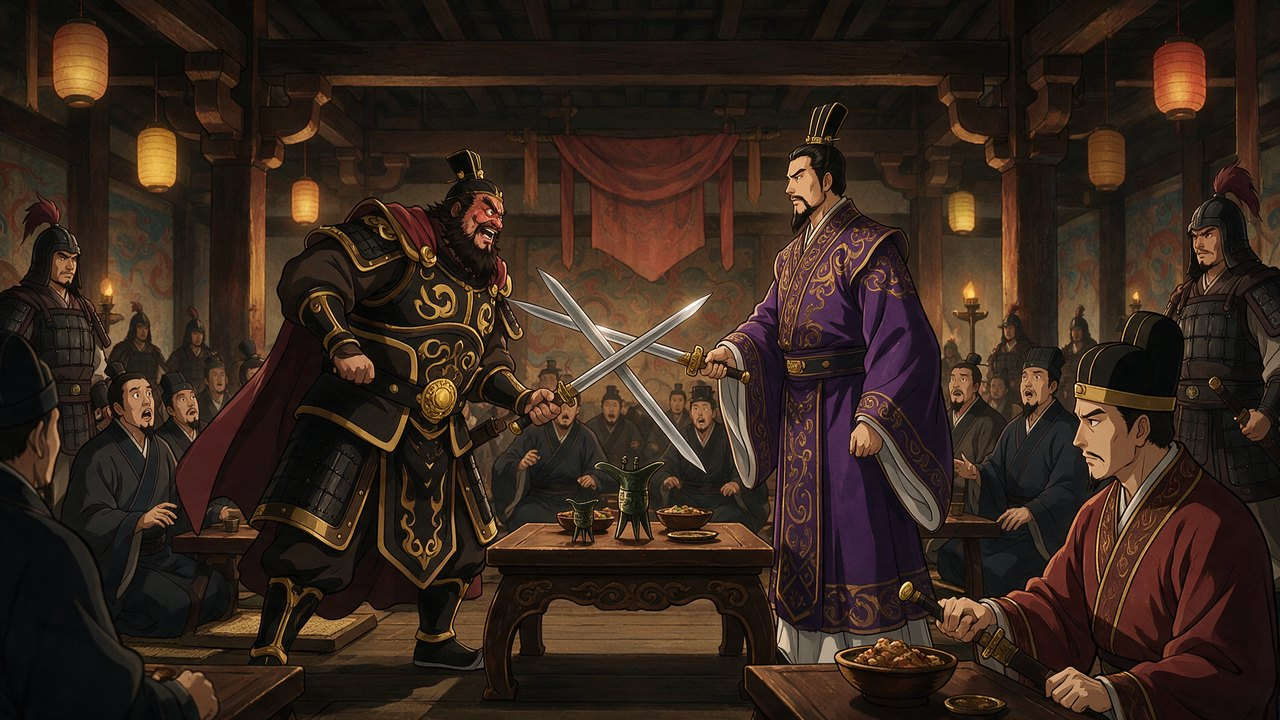
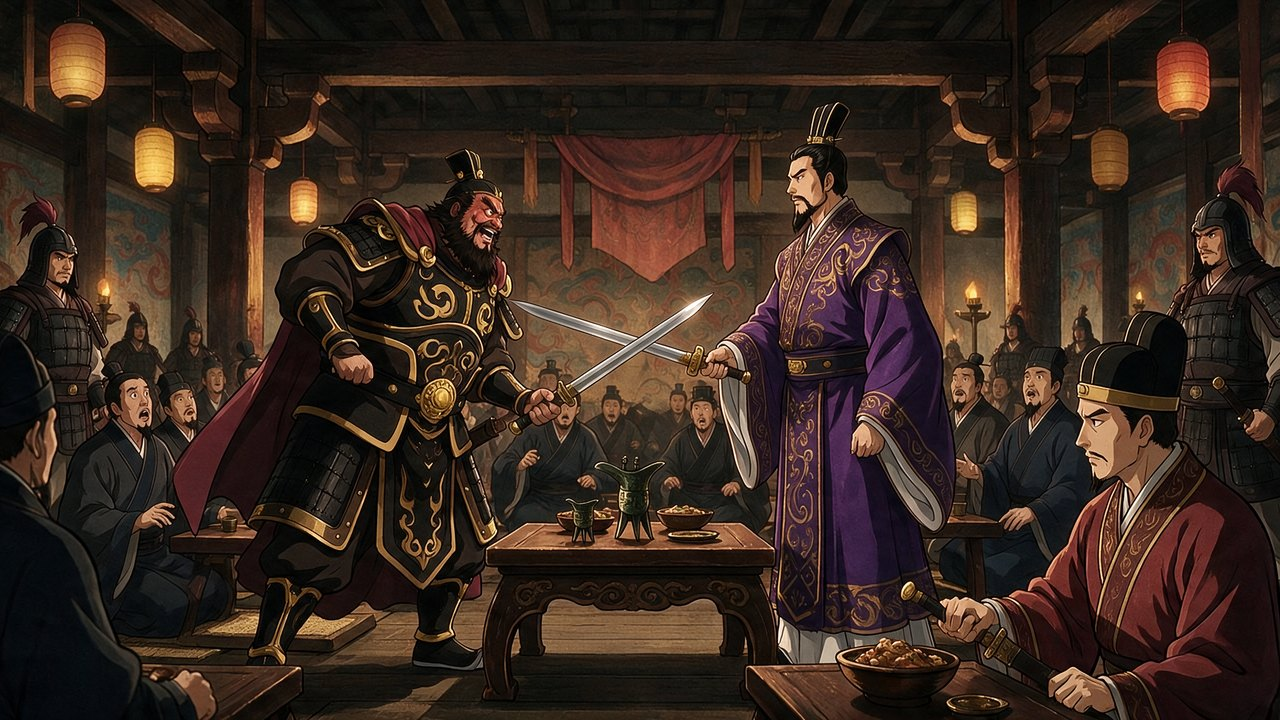
ys_sword: the third, unheld blade removed by an image edit of the same still (apo110: an erroneous blade); stills.json v24
Claude-Session: https://claude.ai/code/session_01CG7crrkzqt1vmaeQ7L7w6w

diff --git a/tk-cutscene.js b/tk-cutscene.js
@@ -692,7 +692,7 @@ const WorldCutscene = {
   // the prop atlas (props, emote bubbles, gift icons), loaded once per game
   // the stills that exist (tools/gen_stills.py writes assets/tk/stills/stills.json), fetched once
   stillIndex() {
-    if (!this._stills) this._stills = fetch("assets/tk/stills/stills.json?v=23").then(r => r.ok ? r.json() : {}).catch(() => ({}));
+    if (!this._stills) this._stills = fetch("assets/tk/stills/stills.json?v=24").then(r => r.ok ? r.json() : {}).catch(() => ({}));
     return this._stills;
   },
   stillSrc(m) { return `assets/tk/stills/${m.file}?v=${m.made || ""}${m.look || ""}`; },   // a redone still is fetched anew

diff --git a/index.html b/index.html
@@ -29,7 +29,7 @@
 <script src="tk-iso.js?v=12"></script>
 <script src="tk-world.js?v=236"></script>
 <script src="tk-items.js?v=8"></script>
-<script src="tk-cutscene.js?v=61"></script>
+<script src="tk-cutscene.js?v=62"></script>
 <script src="tk-music.js?v=6"></script>
 <script src="tk-travel.js?v=8"></script>
 <script src="app.js?v=67"></script>
